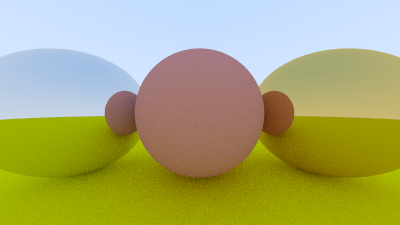
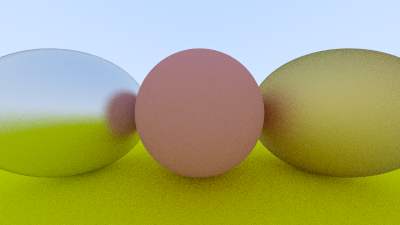
Chapter 9.6, fuzzy reflection.

diff --git a/OneWeekend/Raytracing/main.cpp b/OneWeekend/Raytracing/main.cpp
@@ -44,8 +44,8 @@ int main() {
 
     auto material_ground = make_shared<lambertian>(color(0.8, 0.8, 0.0));
     auto material_center = make_shared<lambertian>(color(0.7, 0.3, 0.3));
-    auto material_left = make_shared<metal>(color(0.8, 0.8, 0.8));
-    auto material_right = make_shared<metal>(color(0.8, 0.6, 0.2));
+    auto material_left = make_shared<metal>(color(0.8, 0.8, 0.8), 0.3);
+    auto material_right = make_shared<metal>(color(0.8, 0.6, 0.2), 1.0);
 
     world.add(make_shared<sphere>(point3(0.0, -100.5, -1.0), 100.0, material_ground));
     world.add(make_shared<sphere>(point3(0.0, 0.0, -1.0), 0.5, material_center));
